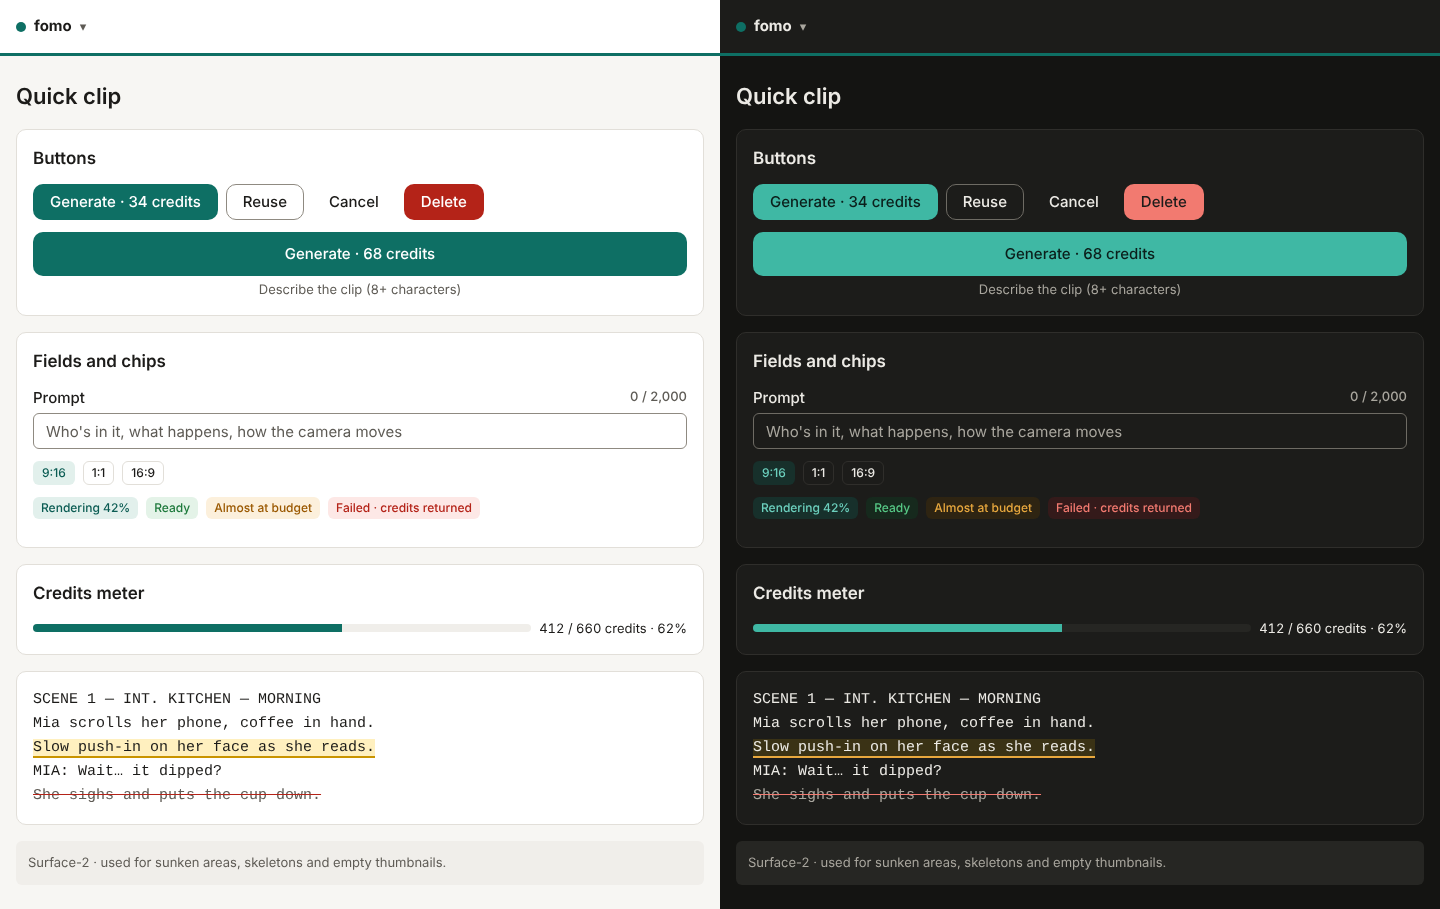
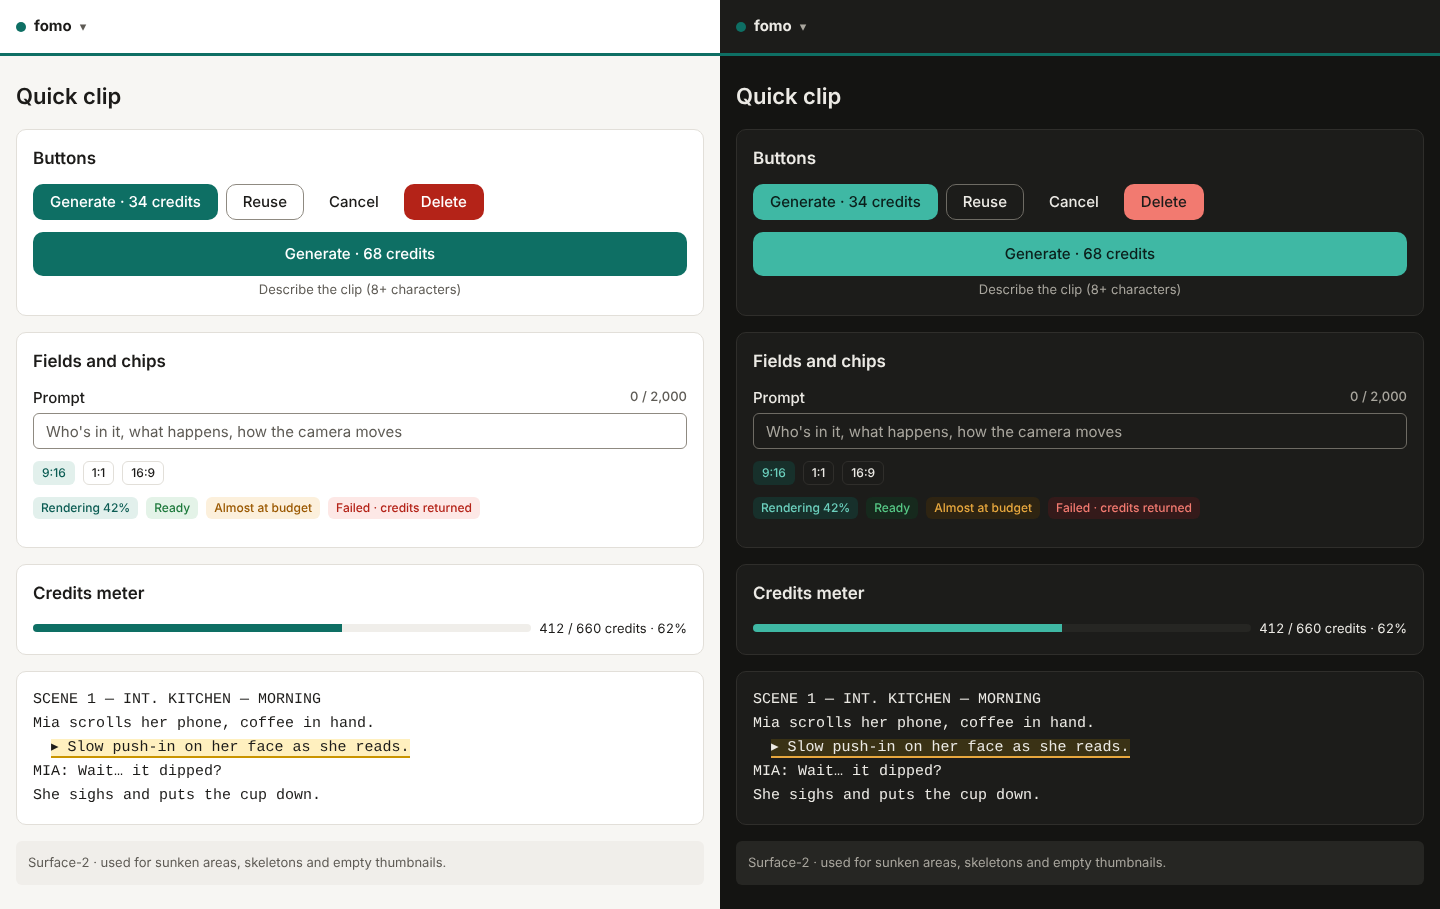
Script Enhance spec: never change script words; notes instead of cuts
Suggestions are only camera, movement, reaction and brand screen/product,
attached under a line as direction notes. Cut and scene-break marks and
the edit action are gone. A Notes section holds plain-sentence notes
that never touch the script.

Claude-Session: https://claude.ai/code/session_018EZgdP2tfyzLp1eHTwPkJJ

diff --git a/docs/design/preview.html b/docs/design/preview.html
@@ -41,7 +41,6 @@
   .track i { display: block; height: 100%; background: var(--accent); }
   .script { font: var(--text-base)/var(--leading-script) var(--font-script); background: var(--surface); }
   .add { background: var(--mark); border-bottom: 2px solid var(--mark-line); }
-  .cut { text-decoration: line-through; text-decoration-color: var(--danger); color: var(--text-muted); }
   .sheet { background: var(--surface-2); border-radius: var(--radius-sm); padding: var(--space-3); }
 </style>
 </head>
@@ -73,9 +72,9 @@
   <div class="card script">
     SCENE 1 — INT. KITCHEN — MORNING<br>
     Mia scrolls her phone, coffee in hand.<br>
-    <span class="add">Slow push-in on her face as she reads.</span><br>
+    &nbsp;&nbsp;<span class="add">▸ Slow push-in on her face as she reads.</span><br>
     MIA: Wait… it dipped?<br>
-    <span class="cut">She sighs and puts the cup down.</span>
+    She sighs and puts the cup down.
   </div>
   <div class="sheet muted">Surface-2 · used for sunken areas, skeletons and empty thumbnails.</div>
 </template>

diff --git a/docs/design/screens/script-enhance.md b/docs/design/screens/script-enhance.md
@@ -1,46 +1,67 @@
 # Script Enhance
 
-Purpose: Claude suggests improvements to an uploaded script as marks the editor accepts or rejects. It never rewrites on its own (DECISIONS 2026-10-23).
-Suggestion kinds: Scene break, Action, Reaction, Camera, Brand screen, Cut (remove dead air).
+Purpose: Claude suggests direction for an uploaded script. **It never changes the script's words** (Reed's rule). It only suggests:
+- **Camera**: framing and moves ("Slow push-in on her face").
+- **Movement**: what a character physically does ("Mia sets the cup down").
+- **Reaction**: a beat or expression ("Mia's eyes widen").
+- **Brand screen / product**: where a fomo screen or a product shows.
+
+Suggestions are attached to a script line as direction notes, never merged into it. Anything else Claude notices goes in **Notes** as plain sentences, which never edit anything.
 
 ## Desktop (1440): the script pane in Enhance mode
 ```
-│ ✦ Enhance · 14 suggestions        [Accept all ▾]  [Done]                   │
-│ Show: [All 14] [Camera 4] [Brand screen 3] [Action 5] [Cut 2]              │
+│ ✦ Enhance · 9 suggestions · 1 note        [Accept all ▾]  [Done]          │
+│ Show: [All 9] [Camera 3] [Movement 2] [Reaction 2] [Brand screen 2]       │
 ├────────────────────────────────────────────── script ───┬── side card 320 ─┤
-│ SCENE 1 — INT. KITCHEN — MORNING                        │ 3 of 14  ‹ ›      │
-│ Mia scrolls her phone, ░coffee in hand.░                │ CAMERA            │
-│ ░Slow push-in on her face as she reads.░ ← added        │ Add: "Slow push-in│
-│ MIA: Wait… it dipped?                                   │ on her face as she│
-│ ┄┄┄┄┄┄┄┄┄┄ ⧉ new scene ┄┄┄┄┄┄┄┄┄┄                       │ reads."           │
-│ ★ fomo screen: Chart down ← brand screen                │ Why: builds the   │
-│ ~~She sighs and puts the cup down.~~ ← cut              │ hook before line 1│
+│ SCENE 1 — INT. KITCHEN — MORNING                        │ 3 of 9   ‹ ›      │
+│ Mia scrolls her phone, coffee in hand.                  │ CAMERA · line 2   │
+│   ░▸ Slow push-in on her face as she reads.░   CAMERA   │ "Slow push-in on  │
+│ MIA: Wait… it dipped?                                   │ her face as she   │
+│   ░▸ Mia's eyes widen.░                       REACTION  │ reads."           │
+│   ░★ fomo screen: Chart down░            BRAND SCREEN   │ Why: builds the   │
+│ She sighs and puts the cup down.                        │ hook before line 3│
 │                                                         │ [Accept A][Reject R]│
-│                                                         │ [Edit E]          │
+│                                                         │───────────────────│
+│                                                         │ NOTES (1)         │
+│                                                         │ The script says   │
+│                                                         │ "strawberry", but │
+│                                                         │ the brand kit has │
+│                                                         │ no strawberry     │
+│                                                         │ product.          │
+│                                                         │ [Got it]          │
 ```
-## The marks
-| Kind | Look |
-|---|---|
-| Added text | `--mark` background, 2px `--mark-line` underline |
-| Cut | strikethrough in `--danger`, text in `--text-muted` |
-| Scene break | dashed `--mark-line` rule across the pane with "new scene" label |
-| Brand screen | ★ + brand dot + screen name in a chip, inline on its own line |
-| Accepted | becomes normal script text (no trace); a toast "Accepted. Undo" |
-| Rejected | disappears; toast "Rejected. Undo" |
-| Focused | 2px `--accent` outline around the mark; side card shows it |
+The script's own lines are never highlighted, struck through or edited. Suggestions sit on their own indented line under the script line they belong to.
 
-Each mark has a small kind label at the right edge (`--text-xs`, muted) so colour isn't the only signal.
+## The marks
+| State | Look |
+|---|---|
+| Pending suggestion | indented line starting `▸` (or `★` for brand screens), `--mark` background, 2px `--mark-line` underline, kind label at the right edge (`--text-xs`, muted) |
+| Focused | 2px `--accent` outline; the side card shows it |
+| Accepted | stays as an indented direction note in `--text-muted` with its kind label, no highlight; toast "Accepted. Undo" |
+| Rejected | disappears; toast "Rejected. Undo" |
+
+The kind label is always text, so colour is never the only signal. Brand screen notes show the brand dot and the screen name.
+
+## Notes (side card, below the current suggestion)
+- These are plain sentences about things Claude noticed but must not fix. Examples: a flavour or product the brand doesn't sell, a claim the kit's "Never say" list forbids, a missing legal line.
+- Each note says which line it's about ("Line 4:") and links to it.
+- The only action is **Got it**, which hides the note. There is no Accept, no Edit and no "fix it" button. Notes never touch the script.
+- When there are no notes, the Notes section is hidden.
 
 ## Behaviour
-- Keyboard: `J`/`K` next/previous, `A` accept, `R` reject, `E` edit (inline textarea, then Accept), `Esc` leaves focus. Shown once as a hint line under the toolbar.
-- Accept all ▾: "Accept all", "Accept all Camera", … Confirm when > 5: "Accept 14 suggestions?".
-- Done: any pending marks stay saved as pending; banner on the script "4 suggestions waiting. [Review]".
-- Every accept/reject creates a script version (shown as "v5 · saved").
-- [✦ Enhance] again on a script that has pending marks asks "Replace the 4 waiting suggestions?".
-- Running: skeleton lines over the script + "Reading your script…". Cost in the Enhance button.
+- Keyboard: `J`/`K` next/previous, `A` accept, `R` reject, `Esc` leaves focus. Show these once as a hint line under the toolbar.
+- Suggestion text can't be edited. If it's not right, reject it, or write your own direction in the script editor.
+- Accept all ▾: "Accept all", "Accept all Camera", … When there are more than 5, confirm first: "Accept 9 suggestions?".
+- Done: pending suggestions stay saved as pending, and the script shows the banner "4 suggestions waiting. [Review]".
+- Every accept or reject saves a new version ("v5 · saved"). The script words are identical across these versions; only the direction notes change.
+- Pressing [✦ Enhance] again while suggestions are pending asks "Replace the 4 waiting suggestions?". Accepted notes are kept.
+- Running: skeleton lines over the script + "Reading your script…". The Enhance button shows the cost.
 
 ## Phone (390)
-Script fills the screen; marks look the same. Tapping a mark opens a bottom sheet (the side card content) with full-width [Accept] [Reject] and ‹ › to move. Filter chips scroll horizontally. Accept all lives in the ⋯ menu.
+The script fills the screen, and suggestions look the same (indented lines).
+- Tapping one opens a bottom sheet with the side card content, full-width [Accept] [Reject], and ‹ › to move between suggestions.
+- A "Notes (1)" chip in the toolbar opens the notes in the same sheet.
+- Filter chips scroll sideways. Accept all lives in the ⋯ menu.
 
 ## Copy
 - No suggestions: "This script already reads well. Nothing to suggest."
